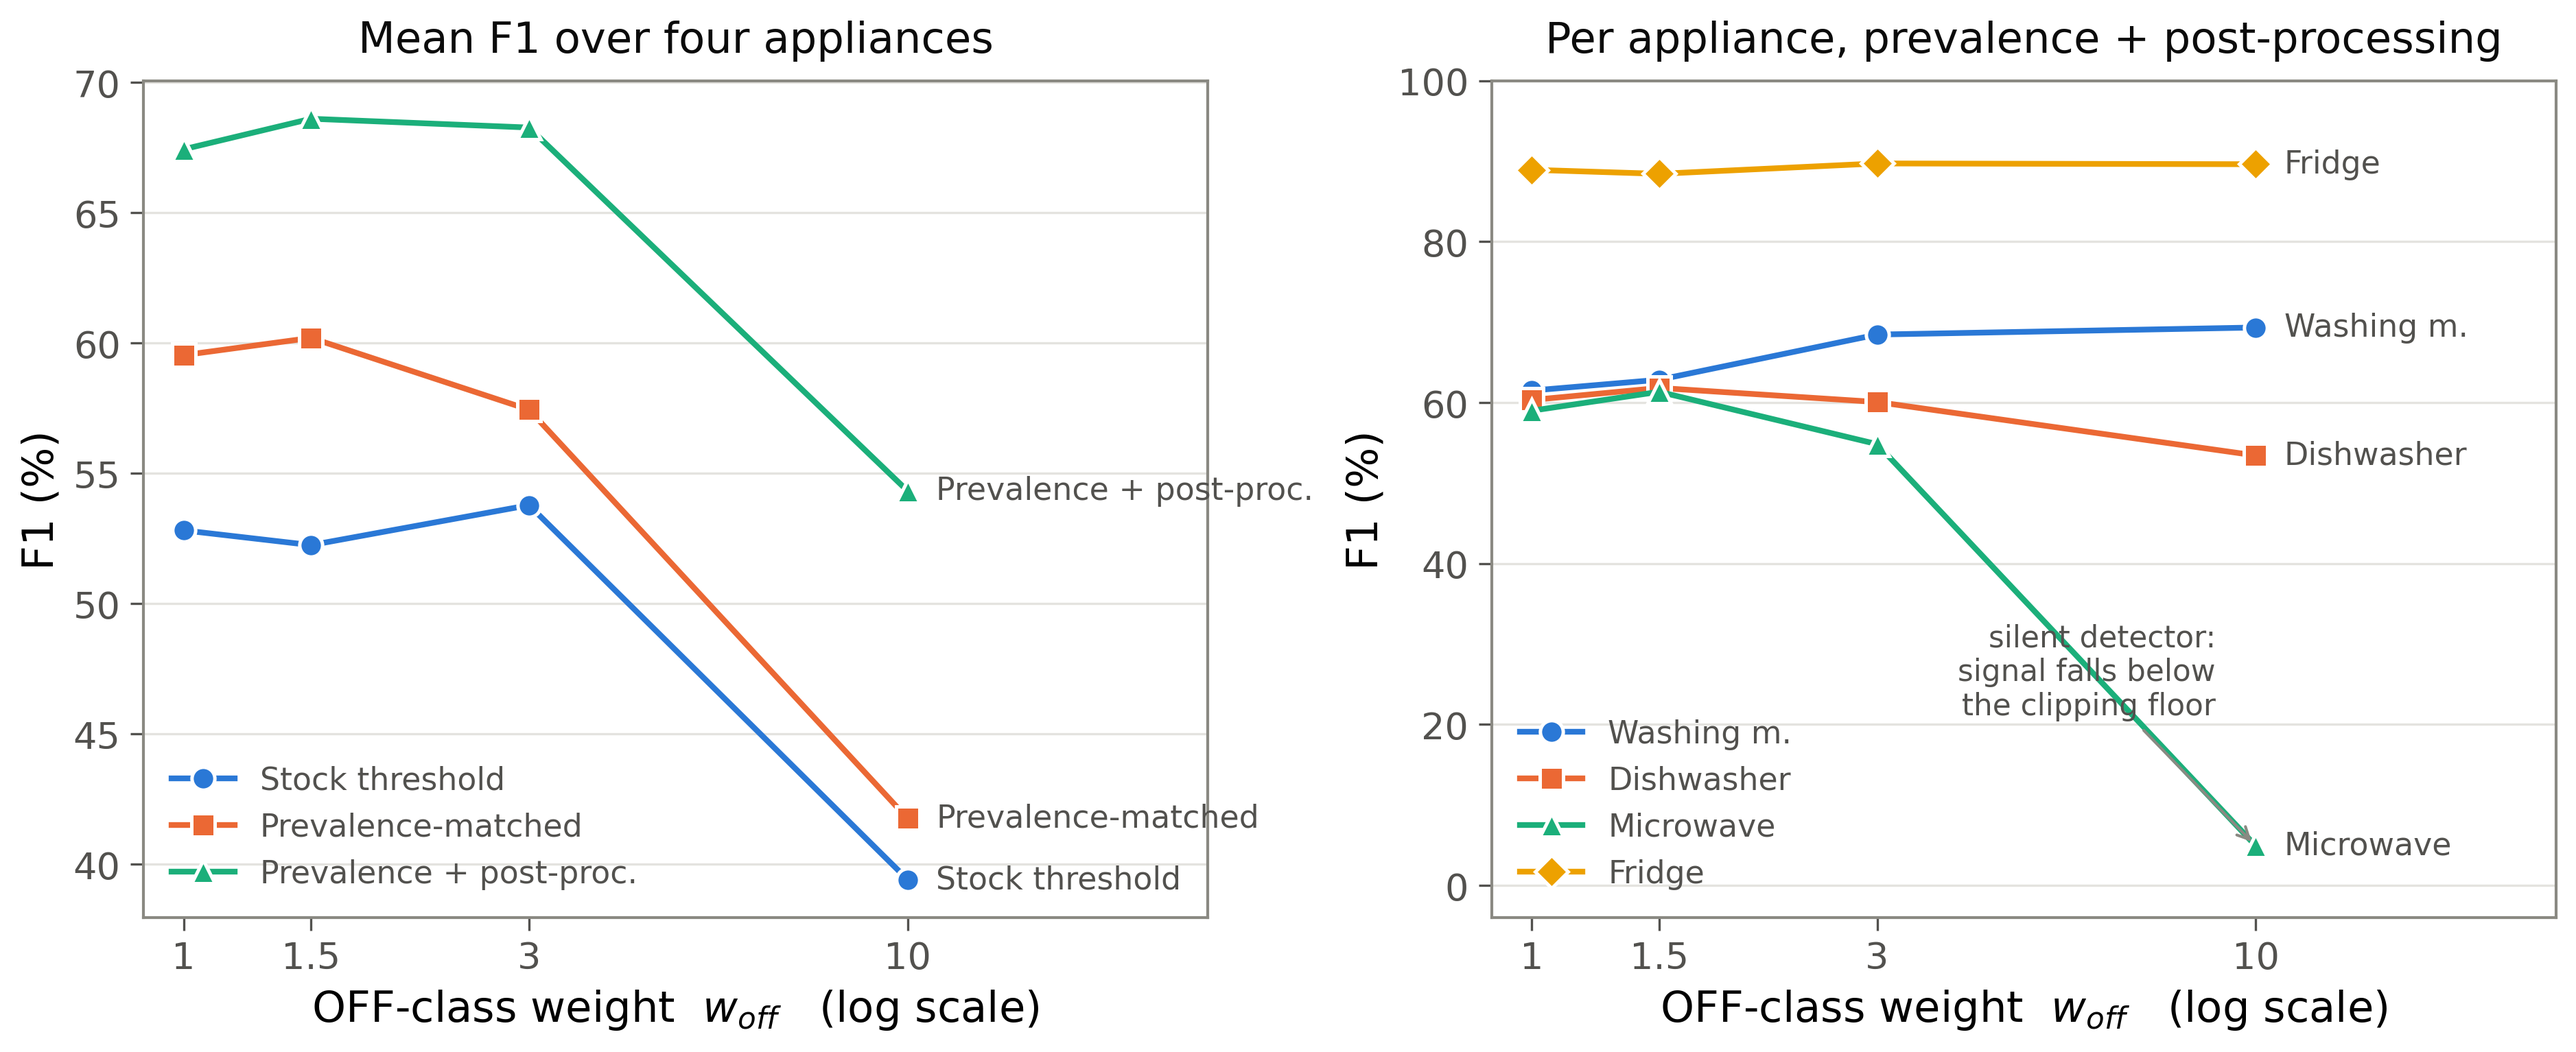
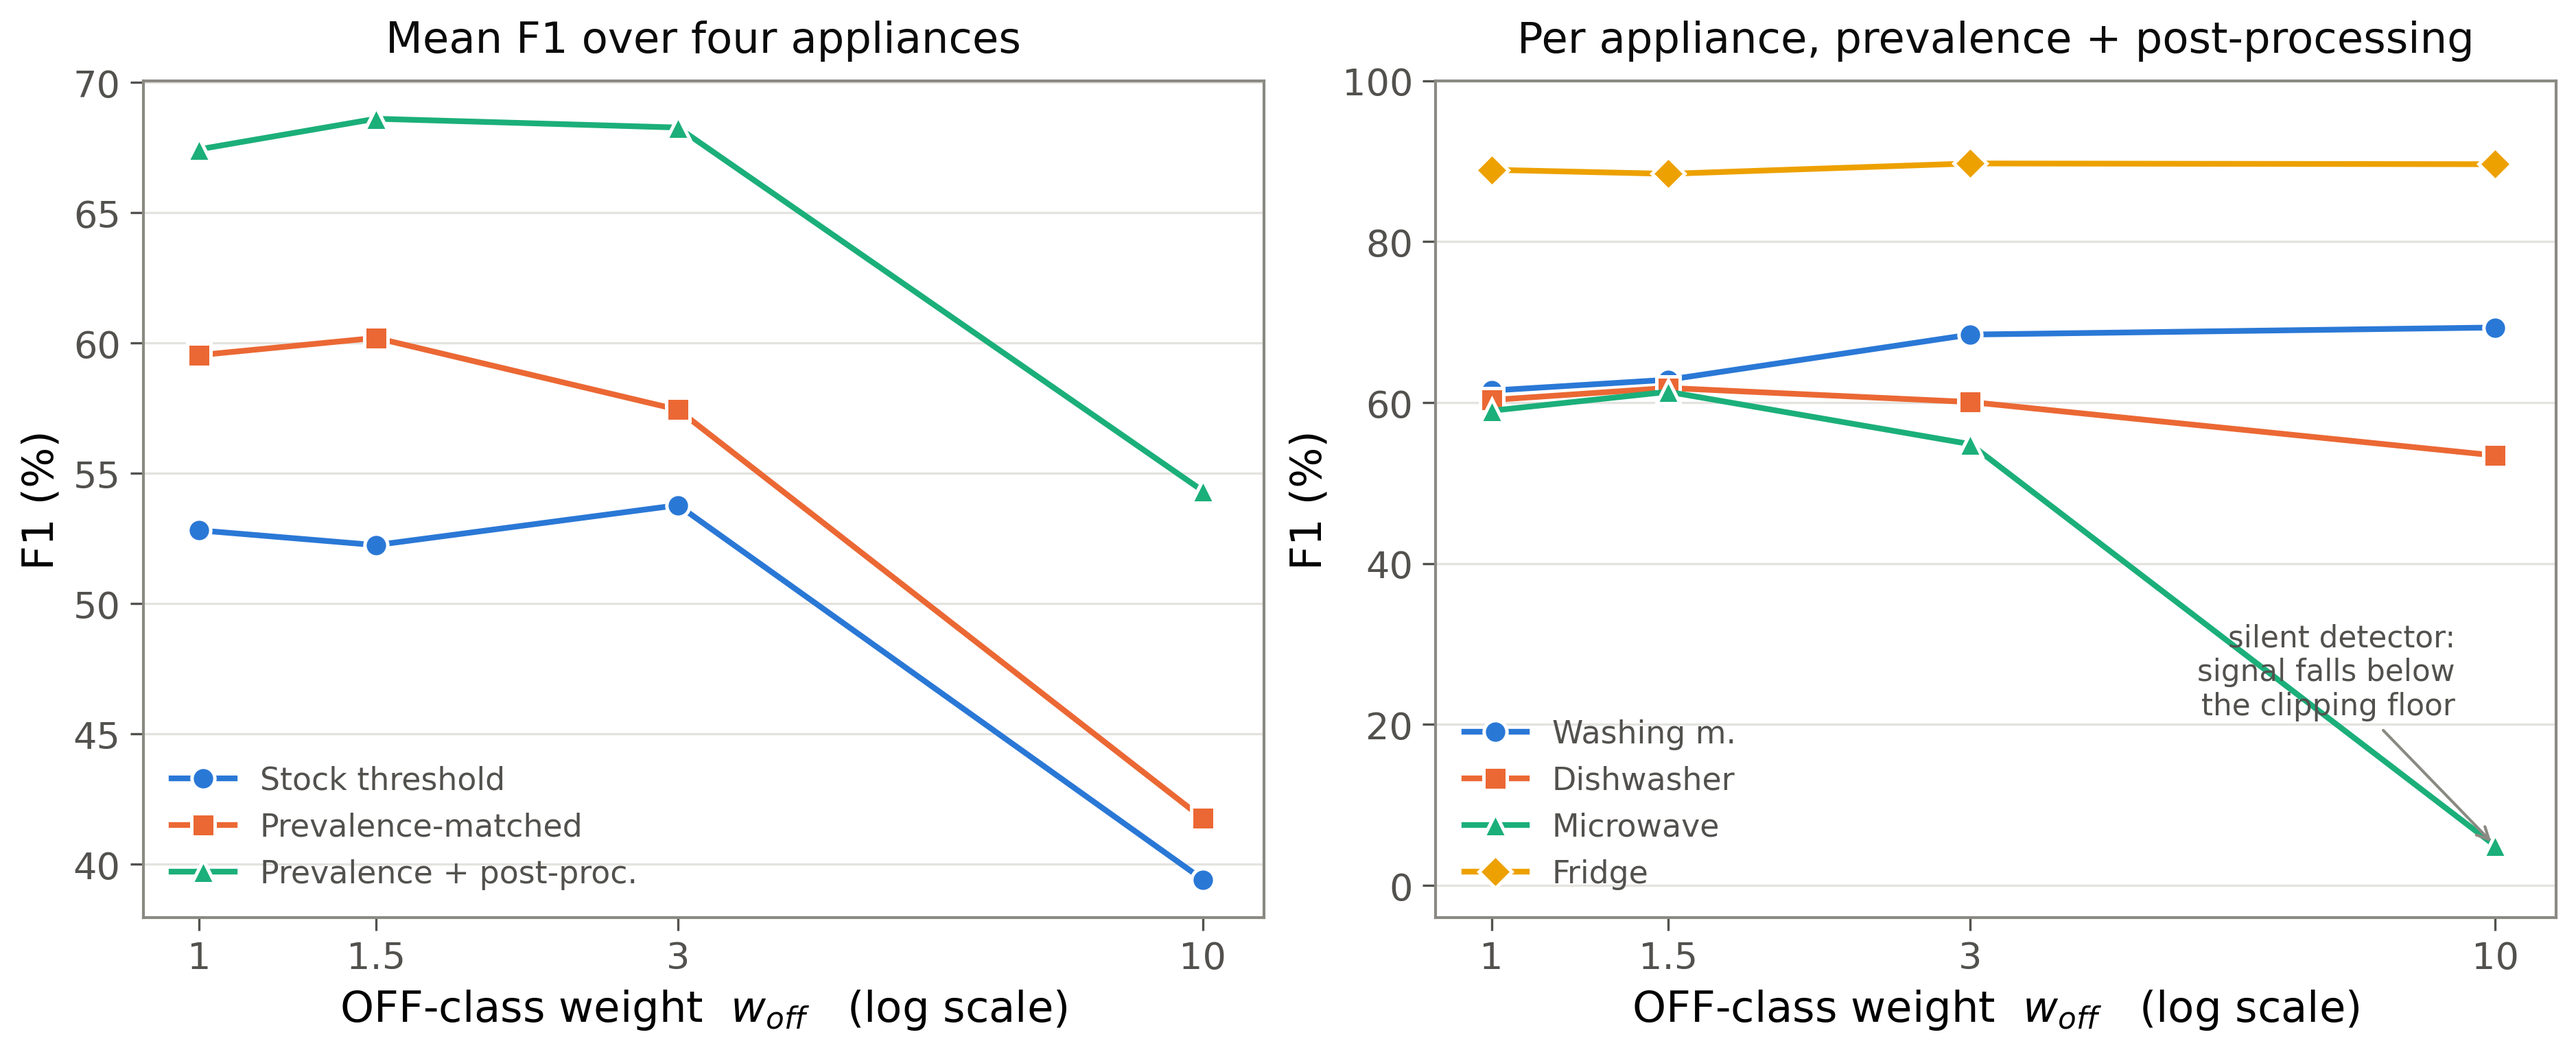
Drop the redundant end-of-line labels from the class-weight figure
Each series was named twice: once beside the last data point and once in
the legend. Removed the annotate() calls in both panels and kept the
legend.

The x-limit goes from (0.88, 26) to (0.88, 11.5). That right margin
existed only to hold the text; with it gone the last point sits at
w_off = 10 and a third of each panel would have been empty.

Identity is still not carried by colour alone -- palette slots 3 and 4
fall below 3:1 on a light surface, but every series keeps a distinct
marker shape and is named in the legend, and the values are written out
as CSV. The comment block that claimed direct labels were doing that job
is updated rather than left stale.

The explanatory callout on panel B ("silent detector: signal falls below
the clipping floor") is kept -- it explains why the microwave curve dies
at w_off = 10 and is not duplicated by the legend.

Figure regenerated from the stored predictions, not hand-edited.

diff --git a/scripts/make_classweight_figure.py b/scripts/make_classweight_figure.py
@@ -66,8 +66,9 @@ ARMS = [("TCN_KL_scratch", 1.0), ("TCN_KL_cw1_5", 1.5),
 #: Categorical slots 1-4 of the reference palette, used unmodified and in order.
 #: Lines use the ADJACENT pairlist, which this order passes in both modes. Slots 3
 #: and 4 sit below 3:1 on a light surface, so the relief rule applies: every series
-#: carries a direct label and a distinct marker, and the plotted values are also
-#: written out as CSV. Identity is never colour alone.
+#: carries a distinct marker and is named in the legend, and the plotted values are
+#: also written out as CSV. Identity is never colour alone. (End-of-line text labels
+#: were dropped as redundant with the legend; the markers still carry identity.)
 C_BLUE, C_ORANGE, C_AQUA, C_YELLOW = "#2a78d6", "#eb6834", "#1baf7a", "#eda100"
 INK, INK_2, INK_MUTED = "#0b0b0b", "#52514e", "#8a8982"
 GRID = "#e4e3df"
@@ -157,11 +158,9 @@ def main():
                              if w in data[key][app]])) for w in xs]
         axA.plot(xs, ys, color=colour, marker=marker, markersize=8, linewidth=2,
                  markeredgecolor="white", markeredgewidth=1.2, label=label, zorder=3)
-        axA.annotate(label, (xs[-1], ys[-1]), textcoords="offset points",
-                     xytext=(10, 0), va="center", fontsize=11, color=INK_2)
     axA.set_title("Mean F1 over four appliances", color=INK, pad=10)
     axA.set_ylabel("F1 (%)")
-    axA.set_xlim(0.88, 26)
+    axA.set_xlim(0.88, 11.5)
     _decorate(axA, xs)
     axA.legend(frameon=False, loc="lower left", labelcolor=INK_2)
 
@@ -171,11 +170,9 @@ def main():
         axB.plot(xs[:len(ys)], ys, color=colour, marker=marker, markersize=8,
                  linewidth=2, markeredgecolor="white", markeredgewidth=1.2,
                  label=label, zorder=3)
-        axB.annotate(label, (xs[len(ys) - 1], ys[-1]), textcoords="offset points",
-                     xytext=(10, 0), va="center", fontsize=11, color=INK_2)
     axB.set_title("Per appliance, prevalence + post-processing", color=INK, pad=10)
     axB.set_ylabel("F1 (%)")
-    axB.set_xlim(0.88, 26)
+    axB.set_xlim(0.88, 11.5)
     axB.set_ylim(-4, 100)
     _decorate(axB, xs)
     axB.legend(frameon=False, loc="lower left", labelcolor=INK_2)
